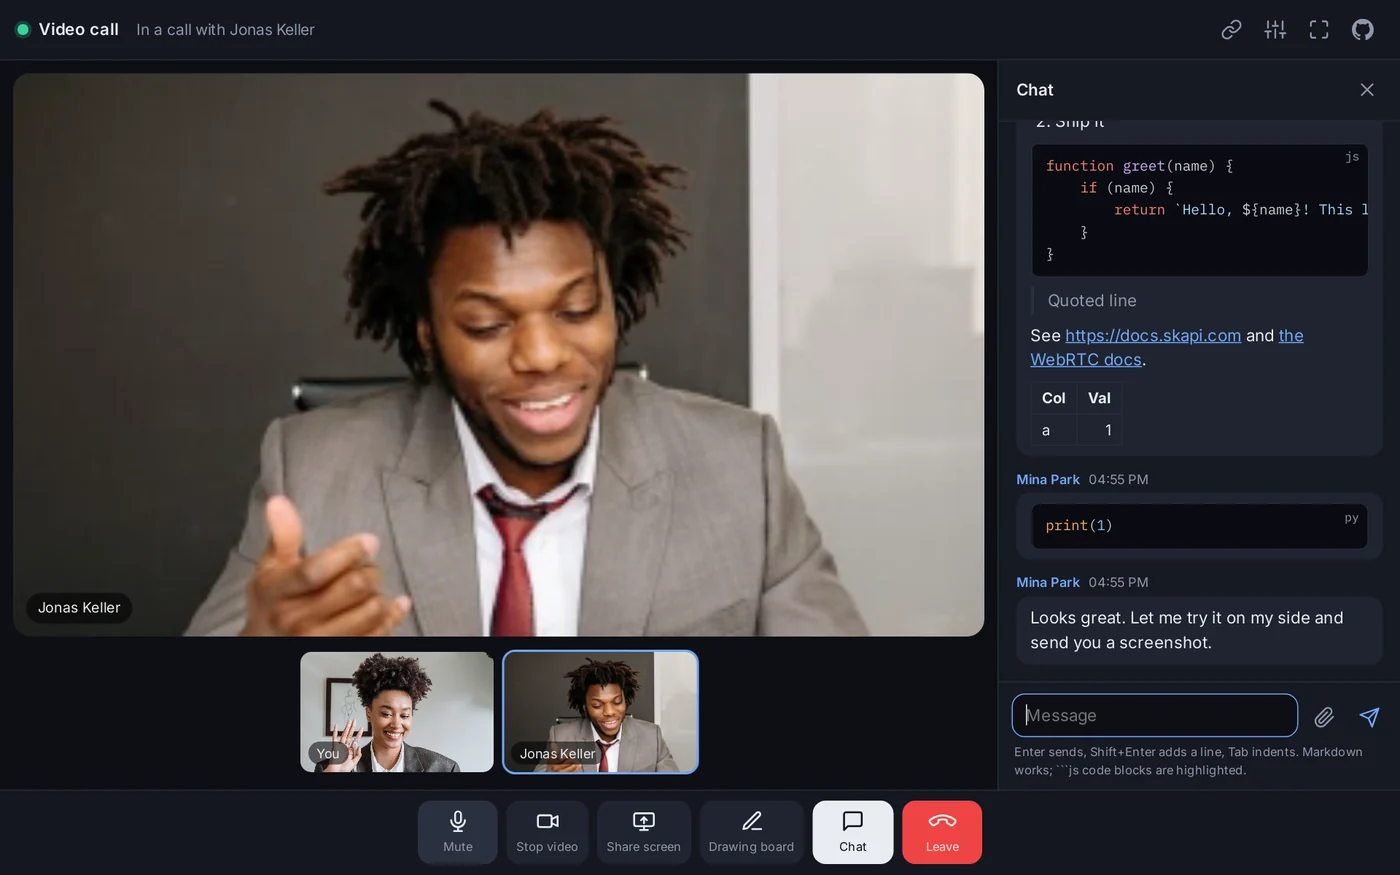
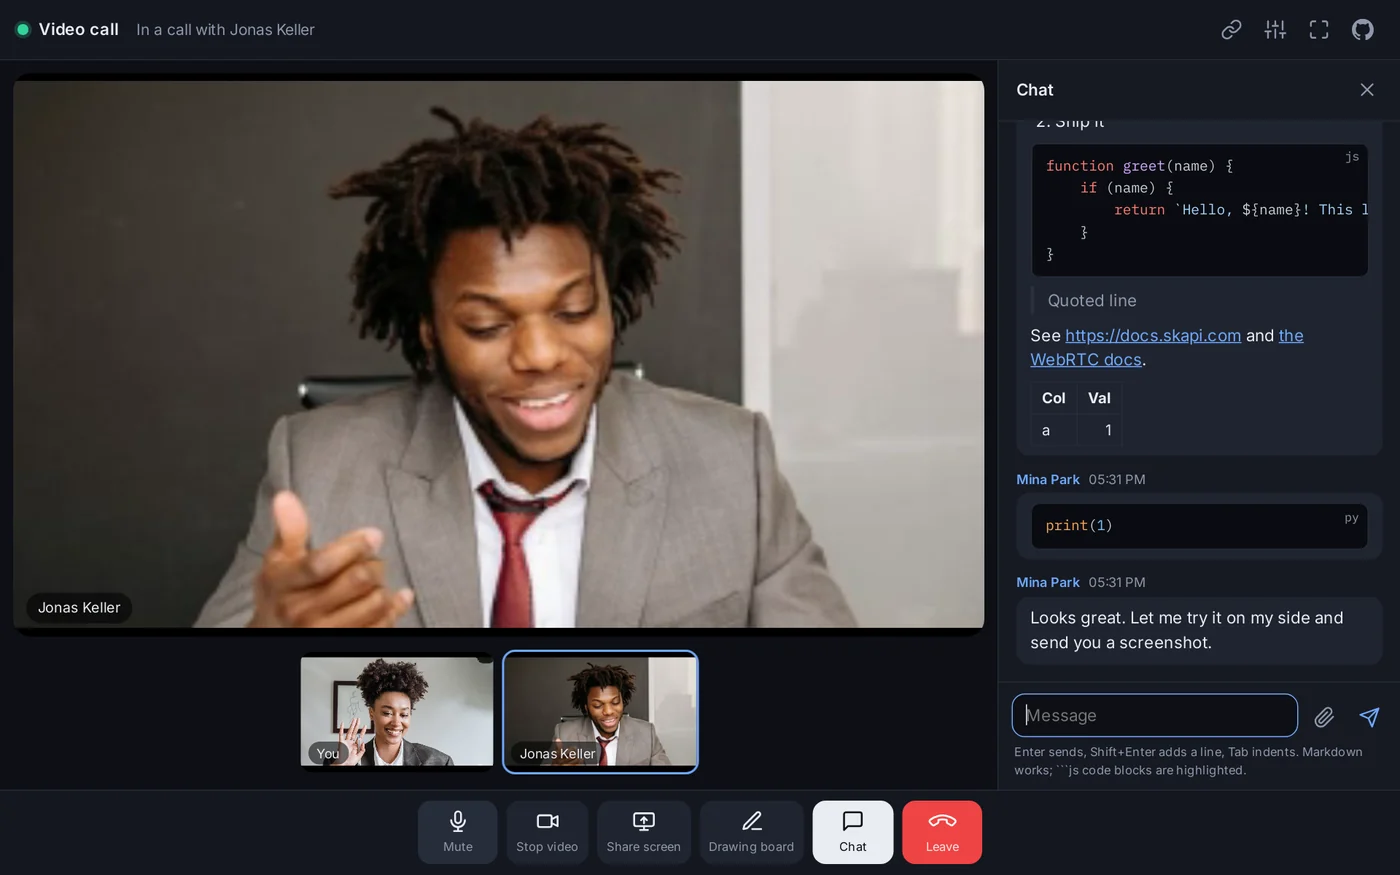
update

diff --git a/app.js b/app.js
@@ -460,7 +460,6 @@ function renderStage() {
         video.srcObject = null;
     }
     video.classList.toggle("mirror", view === "me-camera"); // your own camera is shown as a mirror, like a preview
-    $("stage").dataset.kind = view && view.endsWith("camera") ? "camera" : "other";
 
     const cameraOff = (view === "me-camera" && !camState.me) || (view === "them-camera" && !camState.them);
     $("stage").dataset.camera = cameraOff ? "off" : "on";
@@ -938,6 +937,69 @@ function openChat(open, silent) {
     }
 }
 
+/*
+    The width of the chat on a wide screen. The handle on the panel's left edge drags it, the arrow keys move it when
+    the handle has the focus, a double-click puts it back, and the width is remembered on this device.
+*/
+const CHAT_WIDTH_KEY = "videocall:chatWidth";
+let chatWidth = 0;
+try { chatWidth = Number(localStorage.getItem(CHAT_WIDTH_KEY)) || 0; } catch (err) { }
+
+function remPx() {
+    return parseFloat(getComputedStyle(document.documentElement).fontSize) || 16;
+}
+
+// Keeps the chat readable and leaves the stage room: between 16rem and the call's width less 20rem.
+function setChatWidth(px, save) {
+    const call = $("call");
+    const rem = remPx();
+    const min = 16 * rem;
+    const max = Math.max(min, call.clientWidth - 20 * rem);
+    chatWidth = Math.round(Math.min(max, Math.max(min, px)));
+    call.style.setProperty("--chat-width", chatWidth + "px");
+    if (save) {
+        try { localStorage.setItem(CHAT_WIDTH_KEY, String(chatWidth)); } catch (err) { }
+    }
+}
+
+function resetChatWidth() {
+    chatWidth = 0;
+    $("call").style.removeProperty("--chat-width");
+    try { localStorage.removeItem(CHAT_WIDTH_KEY); } catch (err) { }
+}
+
+$("chatResizer").addEventListener("pointerdown", (event) => {
+    if (!wideScreen.matches) return;
+    event.preventDefault();
+    const handle = event.currentTarget;
+    const right = $("call").getBoundingClientRect().right;
+    const move = (ev) => setChatWidth(right - ev.clientX, false);
+    const stop = () => {
+        handle.removeEventListener("pointermove", move);
+        handle.removeEventListener("pointerup", stop);
+        handle.removeEventListener("pointercancel", stop);
+        document.body.classList.remove("resizing");
+        if (chatWidth) setChatWidth(chatWidth, true);
+        autosize();
+    };
+    try { handle.setPointerCapture(event.pointerId); } catch (err) { }
+    document.body.classList.add("resizing");
+    handle.addEventListener("pointermove", move);
+    handle.addEventListener("pointerup", stop);
+    handle.addEventListener("pointercancel", stop);
+});
+
+$("chatResizer").addEventListener("dblclick", resetChatWidth);
+
+$("chatResizer").addEventListener("keydown", (event) => {
+    const current = chatWidth || $("chat").getBoundingClientRect().width;
+    if (event.key === "ArrowLeft") setChatWidth(current + 16, true);
+    else if (event.key === "ArrowRight") setChatWidth(current - 16, true);
+    else if (event.key === "Home") resetChatWidth();
+    else return;
+    event.preventDefault();
+});
+
 // On a phone the chat covers the call; leaving the call takes it away.
 function exitChatOverlay() {
     if (!wideScreen.matches) openChat(false, true);
@@ -1237,7 +1299,10 @@ function setState(state) {
     $("lobby").hidden = inCall;
     $("call").hidden = !inCall;
     $("bar").hidden = !inCall;
-    if (inCall) autosize();
+    if (inCall) {
+        if (chatWidth) setChatWidth(chatWidth, false); // the width chosen last time, within what this window allows
+        autosize();
+    }
 }
 
 function setStatus(text) {

diff --git a/style.css b/style.css
@@ -279,7 +279,7 @@ a.icon-btn {
 .preview video {
     width: 100%;
     height: 100%;
-    object-fit: cover;
+    object-fit: contain;
     display: block;
 }
 
@@ -395,7 +395,7 @@ a.icon-btn {
 }
 
 .call.chat-open {
-    grid-template-columns: minmax(0, 1fr) 23rem;
+    grid-template-columns: minmax(0, 1fr) var(--chat-width, 23rem); /* --chat-width is set by the resize handle */
 }
 
 .viewer {
@@ -414,33 +414,36 @@ a.icon-btn {
     overflow: hidden;
     background: #000;
     display: grid;
+    grid-template: minmax(0, 1fr) / minmax(0, 1fr); /* one cell, exactly the stage's size, whatever the video's own size */
     place-items: center;
 }
 
-/* The video, the board and the placeholder share the one cell of the stage, so each sits centred on its own. */
+/* The video and the board share that one cell, so each sits centred on its own. */
 .stage > video,
-.stage > .board-wrap,
-.stage > .stage-empty {
+.stage > .board-wrap {
     grid-area: 1 / 1;
+    min-width: 0;
+    min-height: 0;
 }
 
-/* A camera fills the stage, centred and cropped at the edges; a screen or the board is always shown whole. */
+/* Every video is shown whole and centred, never cropped: a camera, a shared screen, and the board alike. */
 .stage video {
     width: 100%;
     height: 100%;
-    object-fit: cover;
+    object-fit: contain;
     object-position: center;
     display: block;
 }
 
-.stage[data-kind="other"] video {
-    object-fit: contain;
-}
-
+/* The placeholder (no video yet, or a camera turned off) lies over the whole stage, centred in it. */
 .stage-empty {
+    position: absolute;
+    inset: 0;
     display: grid;
+    place-content: center;
     justify-items: center;
     gap: .5rem;
+    text-align: center;
     color: var(--muted);
 }
 
@@ -623,13 +626,8 @@ a.icon-btn {
 .tile canvas {
     width: 100%;
     height: 100%;
-    object-fit: cover;
-    display: block;
-}
-
-/* A shared screen is never cropped, not even as a thumbnail. */
-.tile[data-view$="screen"] video {
     object-fit: contain;
+    display: block;
 }
 
 .tile-board canvas {
@@ -690,12 +688,52 @@ a.icon-btn {
 /* ---------- Chat ---------- */
 
 .chat {
+    position: relative;
     display: grid;
     grid-template-rows: auto minmax(0, 1fr) auto auto;
     min-width: 0;
     overflow: hidden;
     border-left: 1px solid var(--line);
     background: var(--panel);
+}
+
+/* The resize handle: a thin strip over the panel's left edge, lit while it is used. */
+.chat-resizer {
+    position: absolute;
+    top: 0;
+    bottom: 0;
+    left: 0;
+    width: 8px;
+    cursor: col-resize;
+    z-index: 2;
+    touch-action: none;
+}
+
+.chat-resizer::after {
+    content: "";
+    position: absolute;
+    top: 0;
+    bottom: 0;
+    left: 0;
+    width: 2px;
+    background: var(--accent);
+    opacity: 0;
+    transition: opacity .15s;
+}
+
+.chat-resizer:hover::after,
+.chat-resizer:focus-visible::after,
+body.resizing .chat-resizer::after {
+    opacity: 1;
+}
+
+.chat-resizer:focus-visible {
+    outline: none;
+}
+
+body.resizing {
+    cursor: col-resize;
+    user-select: none;
 }
 
 .call:not(.chat-open) .chat {
@@ -920,6 +958,7 @@ a.icon-btn {
 .md pre code,
 .md pre code.hljs {
     display: block;
+    min-height: 1.55em; /* an empty block still shows as one line */
     padding: 0;
     background: none;
     font-size: inherit;
@@ -1275,6 +1314,10 @@ a.icon-btn {
 
     .strip {
         justify-content: flex-start;
+    }
+
+    .chat-resizer {
+        display: none;
     }
 
     /* The chat covers the call on a phone. */

diff --git a/index.html b/index.html
@@ -238,6 +238,8 @@
 
                 <!-- Text and files go over the connection's data channels, straight to the other browser. -->
                 <aside class="chat" id="chat" aria-label="Chat">
+                    <!-- Drag the left edge to make the chat wider or narrower (desktop). Double-click puts the width back. -->
+                    <div class="chat-resizer" id="chatResizer" role="separator" aria-orientation="vertical" aria-label="Resize the chat" title="Drag to resize the chat. Double-click to reset." tabindex="0"></div>
                     <header class="chat-head">
                         <h2>Chat</h2>
                         <button type="button" class="icon-btn" id="btnChatClose" aria-label="Close the chat">

diff --git a/README.md b/README.md
@@ -97,7 +97,7 @@ The board stays open while you look at something else: click the other person's 
 
 ## Chat
 
-Press **Chat** to open the chat beside the call. Messages go straight to the other browser and are not kept anywhere; when the call ends, the chat is gone.
+Press **Chat** to open the chat beside the call. Messages go straight to the other browser and are not kept anywhere; when the call ends, the chat is gone. On a desktop you can make the chat wider or narrower: drag its left edge, and double-click the edge to put it back. The width is remembered on your device.
 
 **The chat takes markdown syntax.** Whatever you type is shown the way markdown renders it: `**bold**` becomes bold, `# Heading` becomes a heading, a line starting with `- ` becomes a bullet, a web address becomes a link, and code between ``` lines becomes a code block. Plain text stays plain text. The full list is under "Formatting" below.
 
